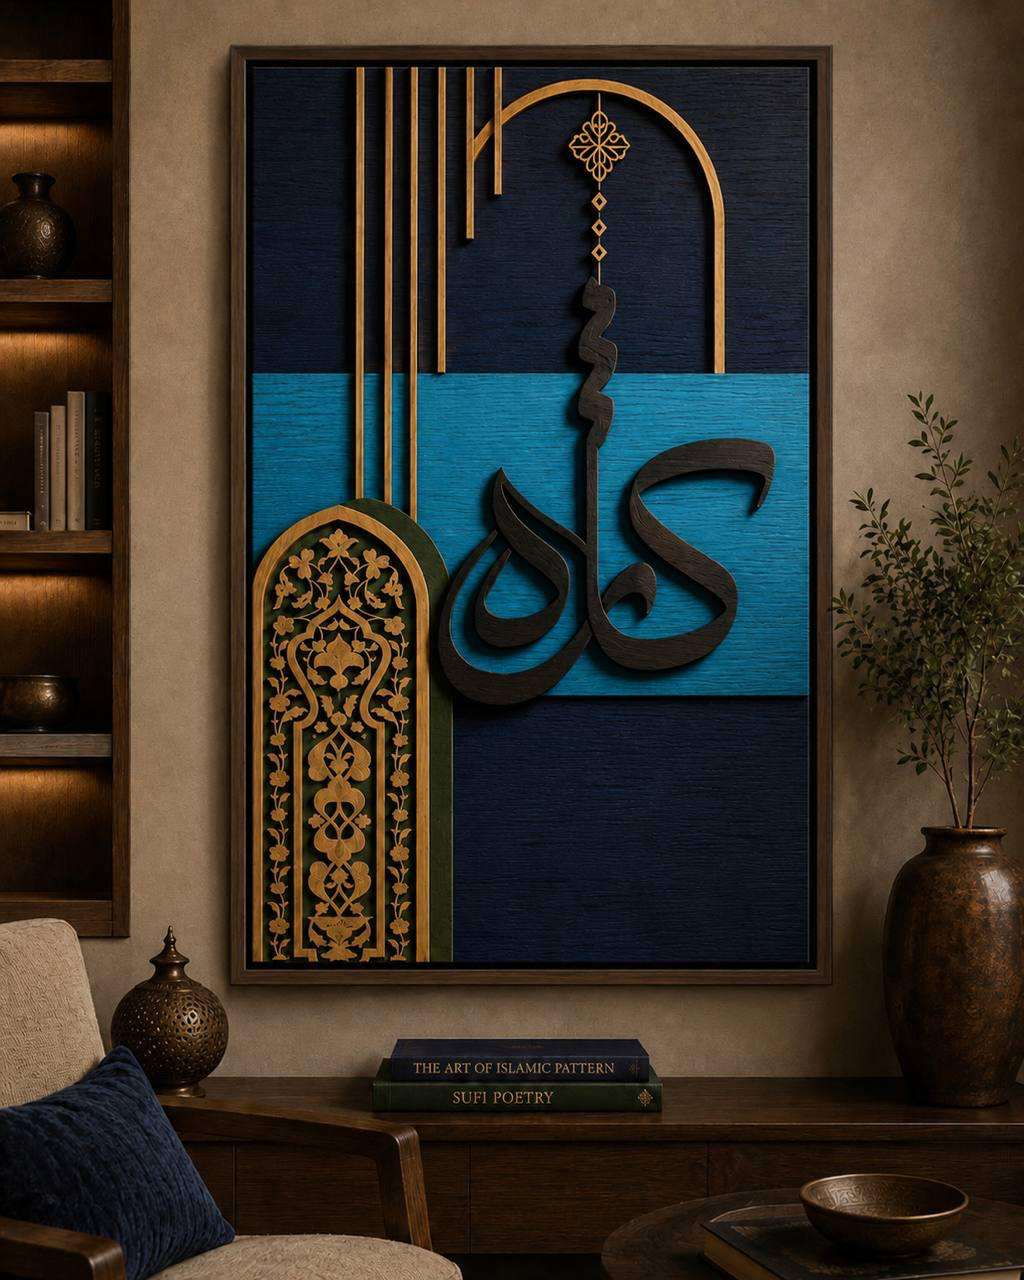
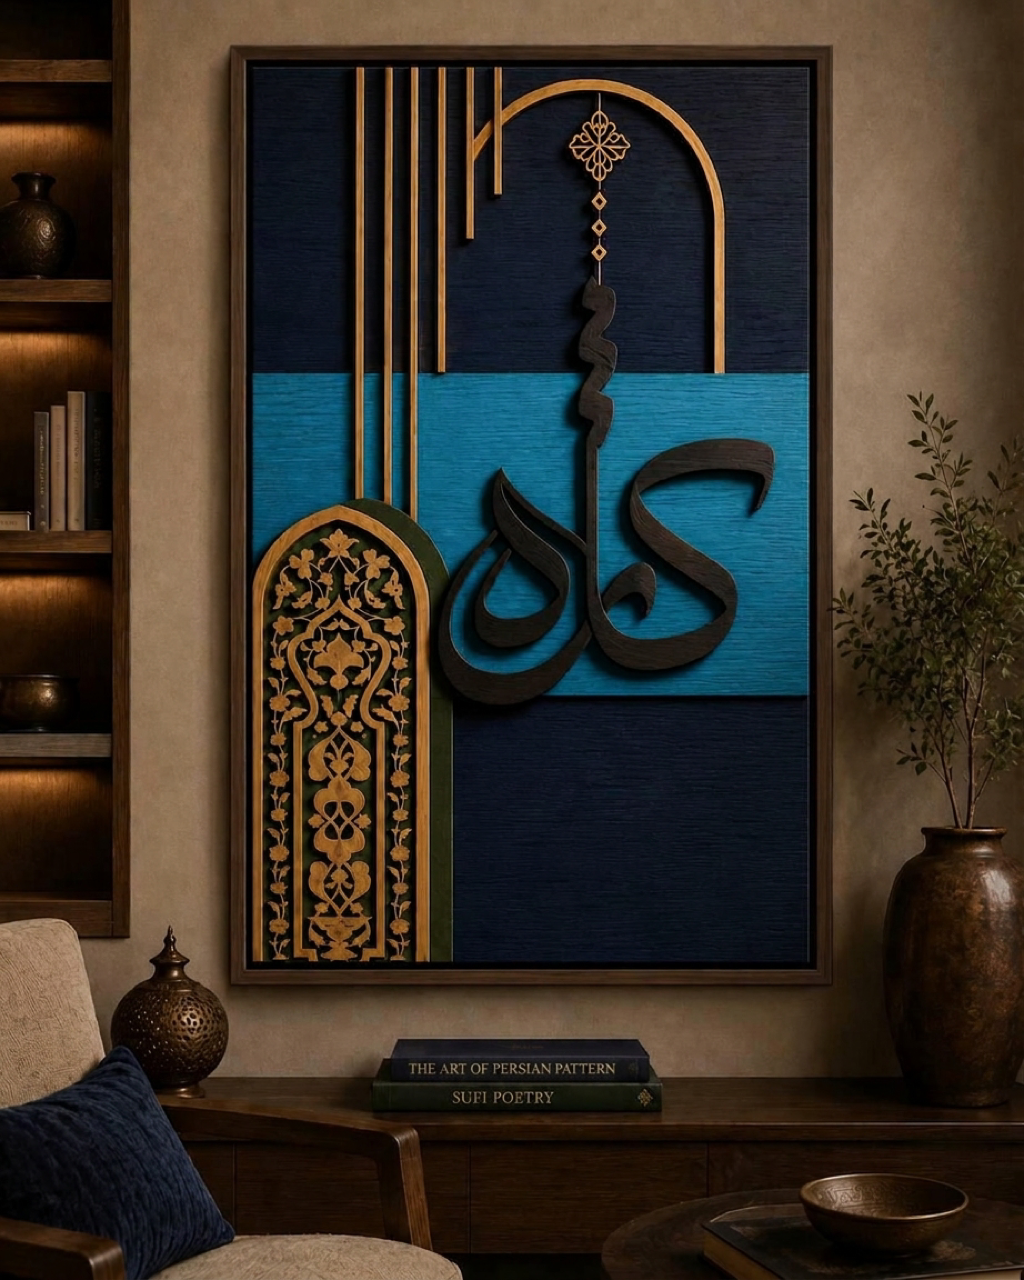
Send buy clicks to the live Etsy listings
All five pieces are now published on Etsy, so the artwork dialog leads with
a "Buy on Etsy" button pointing at that piece's listing. Links use the
bare-ID form (etsy.com/listing/<id>) because Etsy appends its own slug and
the link keeps working if a listing title is edited later.

Etsy only carries the listed sizes, so the email route stays as a secondary
"Custom size? Email the studio" link rather than being removed, and its
mailto now pre-fills a custom-size subject.

Also swaps the A Presence Like Home image for the corrected version: the
styled book on the console read "THE ART OF ISLAMIC PATTERN" and now reads
"THE ART OF PERSIAN PATTERN", matching the photo already live on Etsy.

diff --git a/src/data/pieces.ts b/src/data/pieces.ts
@@ -17,6 +17,10 @@ export type Piece = {
   name: string;
   story: string;
   sizes: SizeOption[];
+  // Live Etsy listing. Checkout happens there, so this is the primary buy path.
+  // Bare-ID form on purpose: Etsy appends its own slug and the link keeps working
+  // even if the listing title is edited later.
+  etsyId?: string;
 };
 
 export const STANDARD_SIZES: SizeOption[] = [
@@ -40,9 +44,17 @@ export const CLOCK_SIZES: SizeOption[] = [
 
 export const CUSTOM_NOTE = "Custom size, contact us";
 
+export const ETSY_SHOP_URL = "https://www.etsy.com/shop/NaqshStudiosArt";
+
+// The listed sizes are bought on Etsy. Anything custom still comes to Erin by email,
+// so both paths stay live: `buyLink` for the standard sizes, `orderLink` for the rest.
+export function buyLink(piece: Piece) {
+  return piece.etsyId ? `https://www.etsy.com/listing/${piece.etsyId}` : orderLink(piece);
+}
+
 export function orderLink(piece: Piece) {
-  const subject = `Order Inquiry: ${piece.name} - ${piece.collection}`;
-  const body = `Hi Erin,\n\nI'd like to order ${piece.name}.\nPreferred size: [24x36 / 32x48 / custom]\n\nThanks,`;
+  const subject = `Custom size inquiry: ${piece.name} - ${piece.collection}`;
+  const body = `Hi Erin,\n\nI'd like ${piece.name} in a custom size.\nRough dimensions I have in mind:\n\nThanks,`;
   return `mailto:erin@naqsh-studios.com?subject=${encodeURIComponent(subject)}&body=${encodeURIComponent(body)}`;
 }
 
@@ -69,6 +81,7 @@ export const pieces: Piece[] = [
     story:
       "Inspired by the sarv, the cypress that stays green through the hardest winters and has long stood for endurance and quiet grace. Rooted yet reaching toward light, its branches and layered leaves unfold across architectural planes in rich burgundy and warm natural wood.",
     sizes: STANDARD_SIZES,
+    etsyId: "4520555397",
   },
   {
     img: arcadeImg,
@@ -77,6 +90,7 @@ export const pieces: Piece[] = [
     story:
       "Inspired by the quiet engineering behind old arches, the point where architecture and heritage meet and structure becomes beauty. Sacred geometry reimagined through a modern minimalist lens in soft neutral and charcoal tones.",
     sizes: DETAILED_SIZES,
+    etsyId: "4520547991",
   },
   {
     img: heechImg,
@@ -85,6 +99,7 @@ export const pieces: Piece[] = [
     story:
       "Inspired by Parviz Tanavoli, the modern master who spent a lifetime turning heech, the word for nothing, into sculpture, finding in the spirit of Sufi thought that nothingness can hold everything. This is my own conversation with that idea: flowing calligraphy of Heech, where emptiness becomes an open invitation to reflection from every angle.",
     sizes: STANDARD_SIZES,
+    etsyId: "4520551421",
   },
   {
     img: kazehImg,
@@ -93,6 +108,7 @@ export const pieces: Piece[] = [
     story:
       "Inspired by kazheh, an old Kurdish and Persian word for the one who brings you comfort and calm, whom you trust and feel at home with. Here it takes form in layered calligraphy framed by architectural arches, held in a calm, stable blue.",
     sizes: DETAILED_SIZES,
+    etsyId: "4520555804",
   },
   {
     img: clockRoomImg,
@@ -102,6 +118,7 @@ export const pieces: Piece[] = [
     story:
       "Inspired by the pull of somewhere else. Continents rise in gold leaf over oceans cut in five layers of deep blue and teal, and an offset navy face keeps the hour while a pendulum swings below. Handmade, and a working clock.",
     sizes: CLOCK_SIZES,
+    etsyId: "4559821128",
   },
 ];
 

diff --git a/src/components/PieceGrid.tsx b/src/components/PieceGrid.tsx
@@ -1,6 +1,6 @@
 import { useState } from "react";
 import { motion } from "framer-motion";
-import { ArrowRight, Mail } from "lucide-react";
+import { ArrowRight, ExternalLink, Mail } from "lucide-react";
 import { Link } from "wouter";
 import { Button } from "@/components/ui/button";
 import {
@@ -9,7 +9,7 @@ import {
   DialogTitle,
   DialogDescription,
 } from "@/components/ui/dialog";
-import { type Piece, CUSTOM_NOTE, orderLink, slugify } from "@/data/pieces";
+import { type Piece, CUSTOM_NOTE, buyLink, orderLink, slugify } from "@/data/pieces";
 
 export default function PieceGrid({ pieces }: { pieces: Piece[] }) {
   const [selected, setSelected] = useState<Piece | null>(null);
@@ -133,11 +133,38 @@ export default function PieceGrid({ pieces }: { pieces: Piece[] }) {
                   </ul>
                 </div>
 
-                <a href={orderLink(selected)} className="mt-auto" data-testid="link-order">
-                  <Button className="w-full rounded-none bg-primary text-primary-foreground hover:bg-foreground uppercase tracking-widest text-sm h-14">
-                    <Mail className="w-4 h-4 mr-2" /> Order / Inquire
-                  </Button>
-                </a>
+                <div className="mt-auto">
+                  {selected.etsyId ? (
+                    <>
+                      <a
+                        href={buyLink(selected)}
+                        target="_blank"
+                        rel="noopener noreferrer"
+                        data-testid="link-buy-etsy"
+                      >
+                        <Button className="w-full rounded-none bg-primary text-primary-foreground hover:bg-foreground uppercase tracking-widest text-sm h-14">
+                          Buy on Etsy <ExternalLink className="w-4 h-4 ml-2" />
+                        </Button>
+                      </a>
+                      {/* Etsy only carries the listed sizes, so custom work still
+                          comes straight to Erin. */}
+                      <a
+                        href={orderLink(selected)}
+                        className="mt-4 block text-center font-sans text-xs uppercase tracking-[0.2em] text-muted-foreground hover:text-foreground transition-colors"
+                        data-testid="link-order"
+                      >
+                        <Mail className="w-3.5 h-3.5 mr-2 inline-block align-[-2px]" />
+                        Custom size? Email the studio
+                      </a>
+                    </>
+                  ) : (
+                    <a href={orderLink(selected)} data-testid="link-order">
+                      <Button className="w-full rounded-none bg-primary text-primary-foreground hover:bg-foreground uppercase tracking-widest text-sm h-14">
+                        <Mail className="w-4 h-4 mr-2" /> Order / Inquire
+                      </Button>
+                    </a>
+                  )}
+                </div>
               </div>
             </div>
           )}
